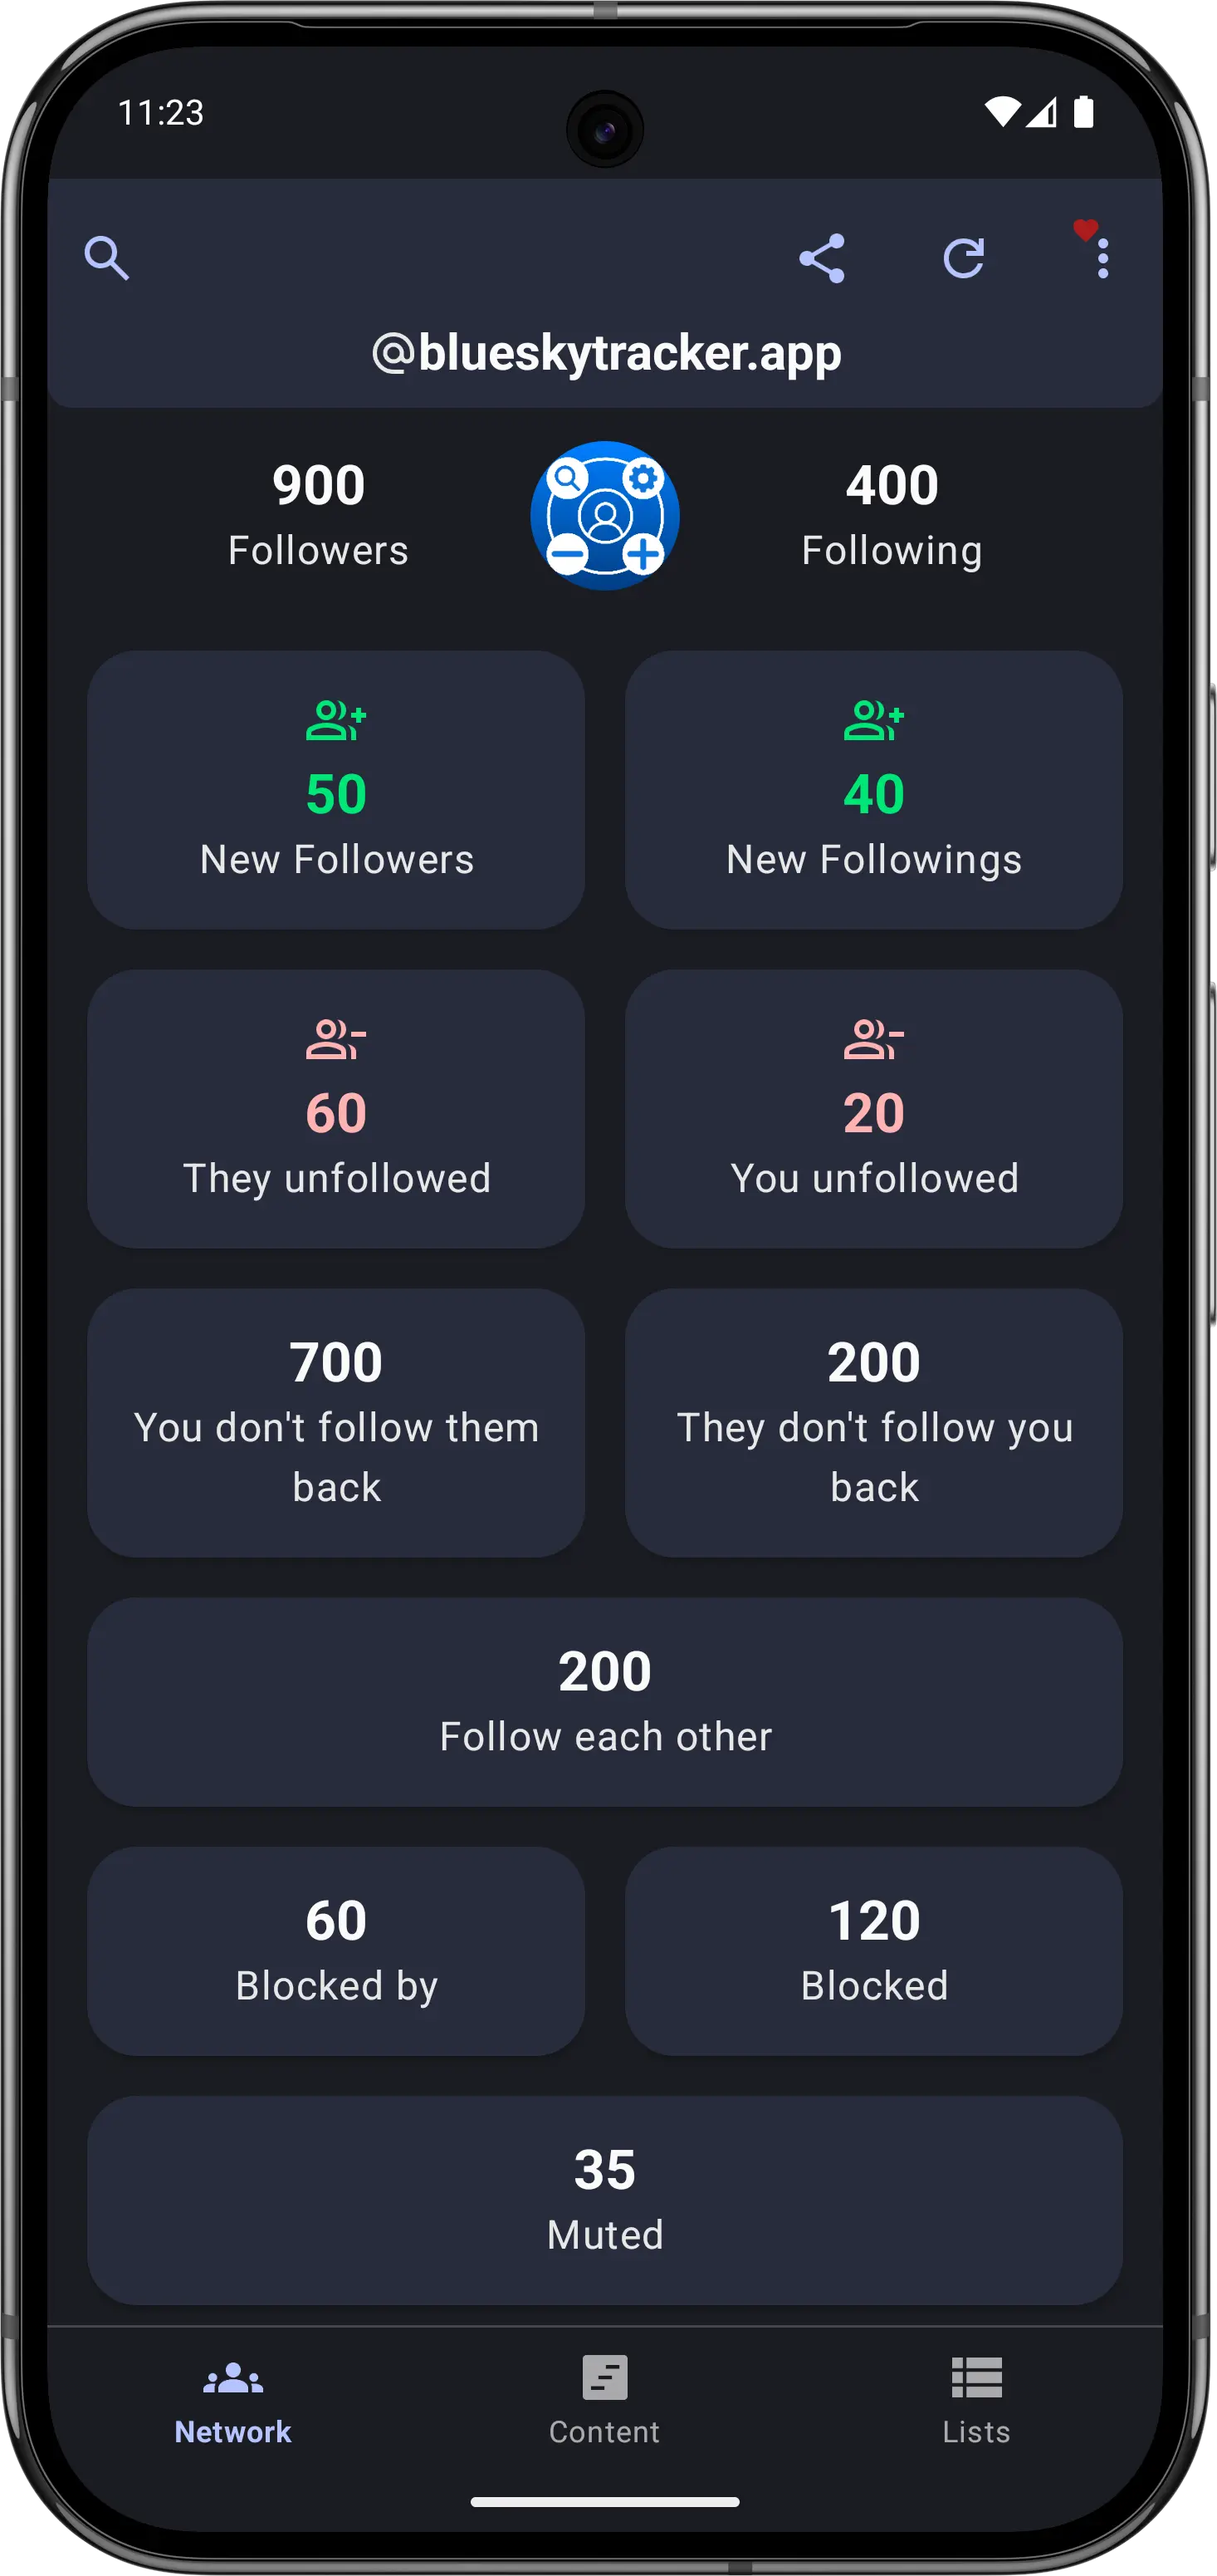
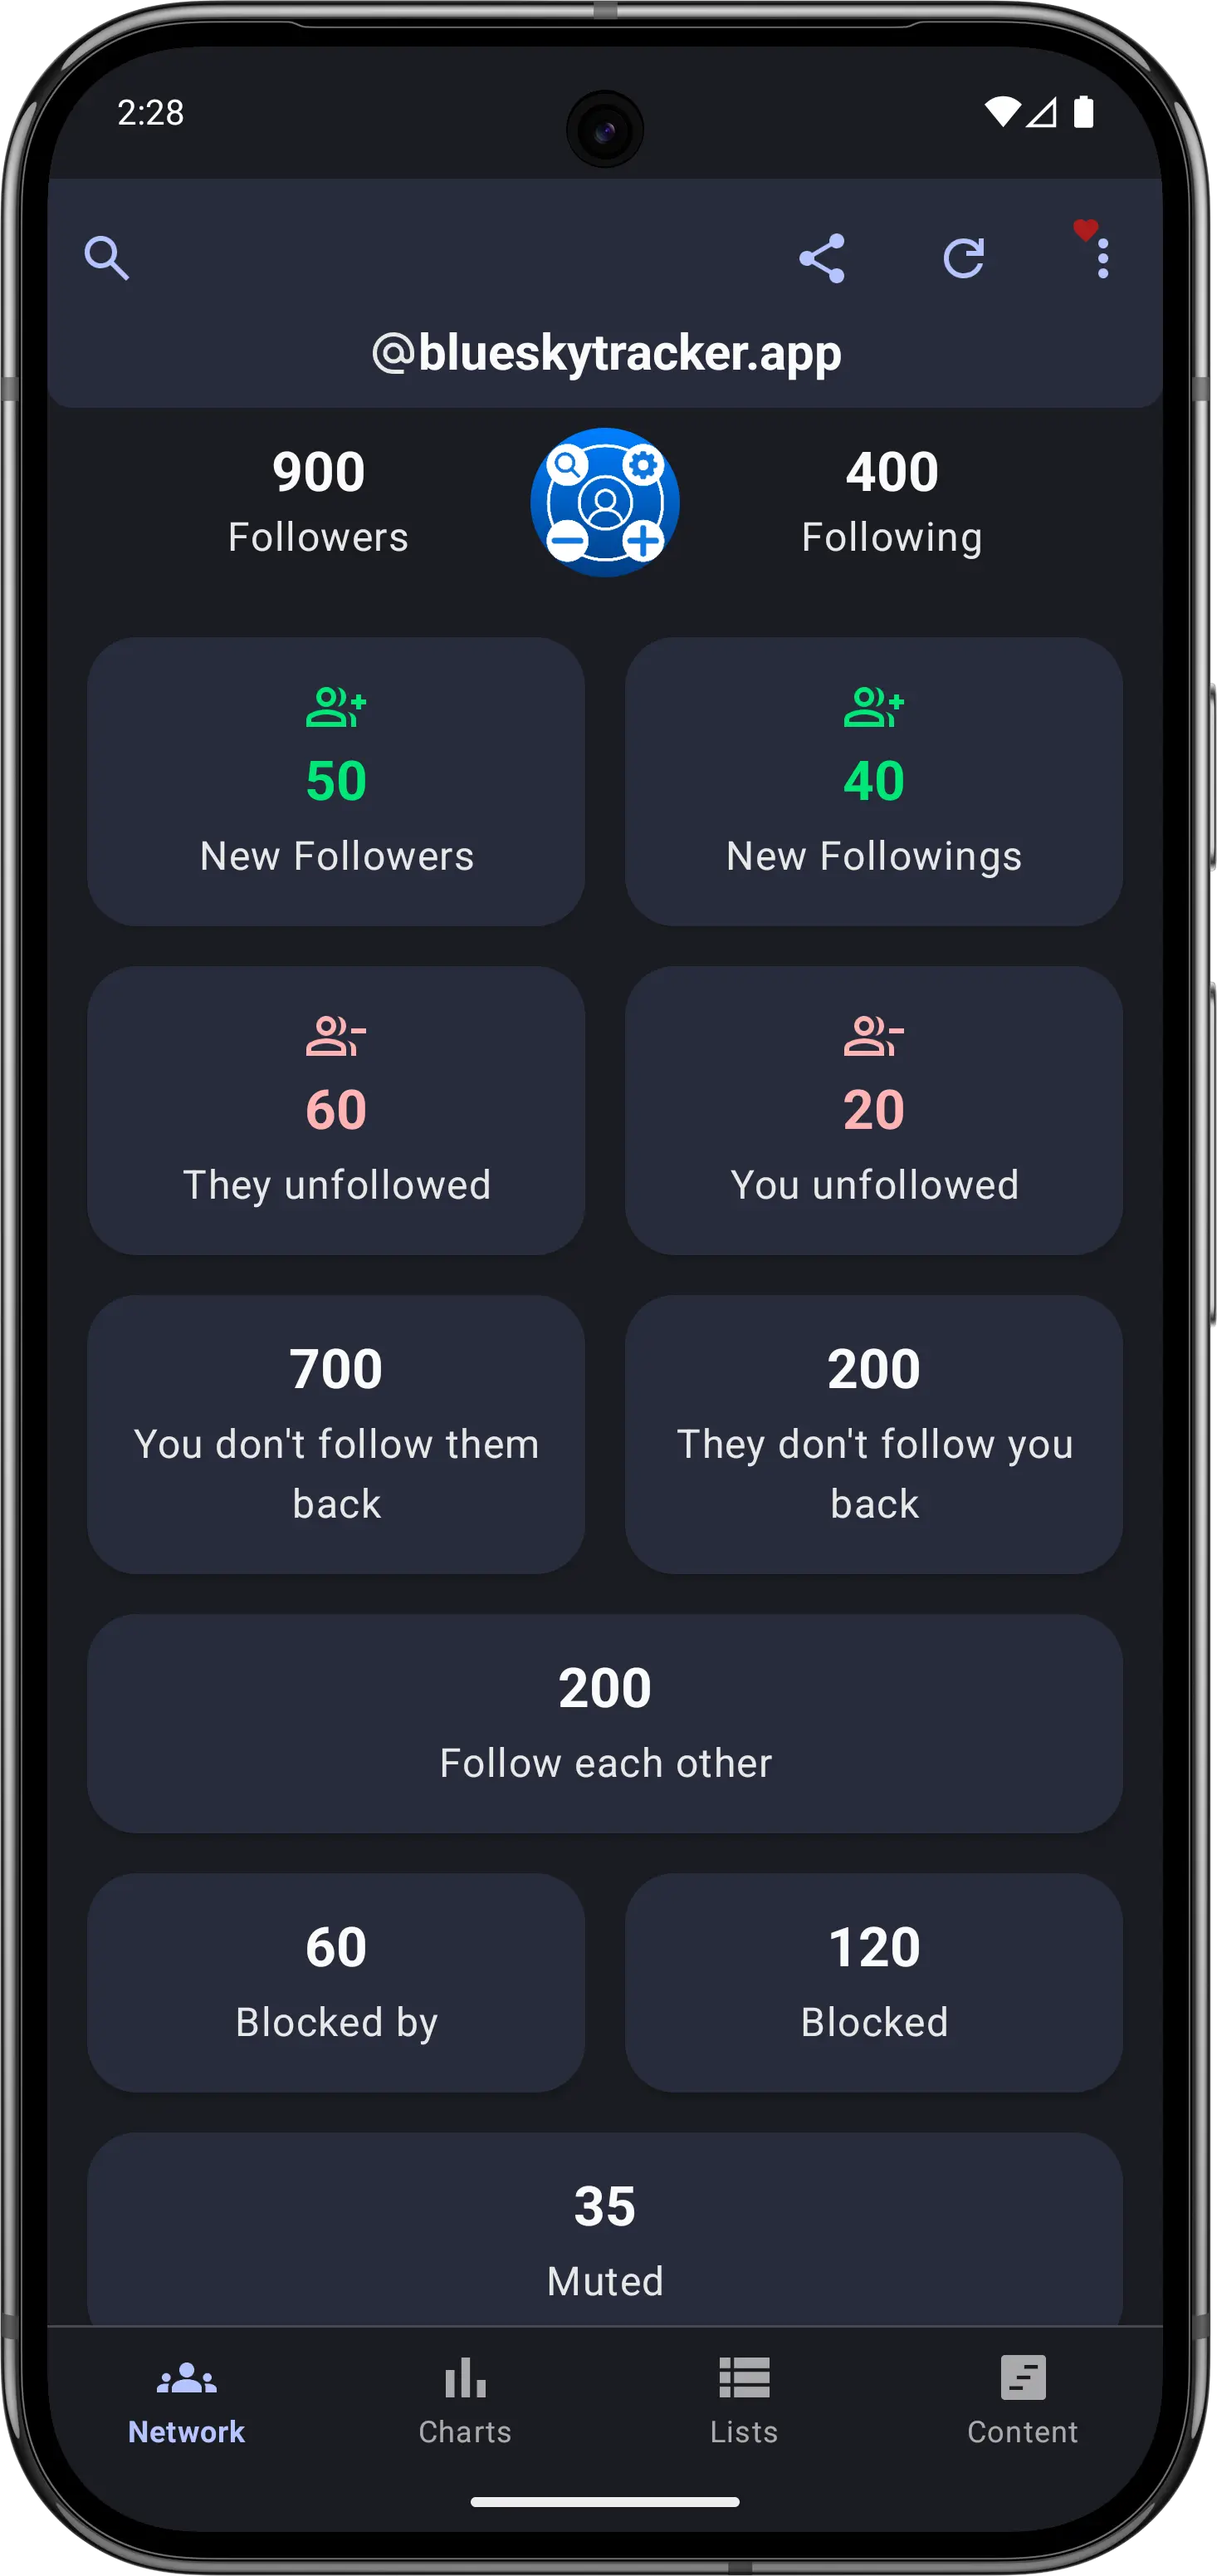
Update libraries. Update screenshots. Update release notes.

diff --git a/frontend/src/components/LandingPage.js b/frontend/src/components/LandingPage.js
@@ -69,6 +69,11 @@ const LandingPage = () => {
       description: "See who has blocked you and manage your blocks and mutes effectively."
     },
     {
+      icon: <BarChart3 className="w-6 h-6" />,
+      title: "Interactive Charts & Trends",
+      description: "Understand your growth at a glance with interactive charts for followers, followings, and engagement over time."
+    },
+    {
       icon: <Filter className="w-6 h-6" />,
       title: "Advanced Filtering",
       description: "Filter users based on keywords, followers count, follower-to-following ratio, engagement, and activity level."
@@ -146,7 +151,7 @@ const LandingPage = () => {
           <div className="container mx-auto px-6 relative z-10">
             <div className="text-center max-w-6xl mx-auto">
               <Badge className="mb-6 bg-blue-500/20 text-blue-200 border-blue-400/30">
-                15K+ downloads • 4.7⭐ rating
+                20K+ downloads • 4.8⭐ rating
               </Badge>
 
               <h1 className="text-2xl font-bold text-white mb-6 leading-tight">
@@ -258,19 +263,19 @@ const LandingPage = () => {
               {/* Download & User Stats */}
               <div className="grid grid-cols-2 md:grid-cols-4 gap-6 max-w-2xl mx-auto">
                 <div className="text-center">
-                  <div className="text-2xl font-bold text-white">15,000+</div>
+                  <div className="text-2xl font-bold text-white">20,000+</div>
                   <div className="text-sm text-white/70">Downloads</div>
                 </div>
                 <div className="text-center">
-                  <div className="text-2xl font-bold text-white">4,500+</div>
+                  <div className="text-2xl font-bold text-white">5,000+</div>
                   <div className="text-sm text-white/70">Active Users</div>
                 </div>
                 <div className="text-center">
-                  <div className="text-2xl font-bold text-white">4.7⭐</div>
+                  <div className="text-2xl font-bold text-white">4.8⭐</div>
                   <div className="text-sm text-white/70">App Rating</div>
                 </div>
                 <div className="text-center">
-                  <div className="text-2xl font-bold text-white">450+</div>
+                  <div className="text-2xl font-bold text-white">500+</div>
                   <div className="text-sm text-white/70">Reviews</div>
                 </div>
               </div>
@@ -352,7 +357,7 @@ const LandingPage = () => {
                 {[...Array(5)].map((_, i) => (
                   <Star key={i} className="w-6 h-6 text-yellow-400 fill-current" />
                 ))}
-                <span className="text-white/70 ml-2">4.7/5 from 450+ reviews</span>
+                <span className="text-white/70 ml-2">4.8/5 from 500+ reviews</span>
               </div>
             </div>
 
@@ -504,7 +509,7 @@ const LandingPage = () => {
                 Ready to Master Your Bluesky Network?
               </h2>
               <p className="text-lg text-white/80 mb-8">
-                Join 15,000+ users who trust Tracker - Manager for Bluesky to track and manage their Bluesky presence. 
+                Join 20,000+ users who trust Tracker - Manager for Bluesky to track and manage their Bluesky presence. 
                 Download now and see results immediately.
               </p>
               

diff --git a/frontend/src/data/changelog.js b/frontend/src/data/changelog.js
@@ -1,8 +1,33 @@
 export const changelogData = [
   {
+    version: "3.0.4",
+    date: "March 7, 2025",
+    isLatest: true,
+    changes: [
+      "Charts now include totals for the selected period",
+      "Improved compatibility with different PDS setups such as eurosky.social"
+    ]
+  },
+  {
+    version: "3.0.3",
+    date: "February 14, 2025",
+    isLatest: false,
+    changes: [
+      "New Charts tab: Track your network for the last 30 days with visual insights."
+    ]
+  },
+  {
+    version: "2.23.0",
+    date: "January 23, 2025",
+    isLatest: false,
+    changes: [
+      "New Advanced Filter: filter users by latest like date"
+    ]
+  },
+  {
     version: "2.22.0",
     date: "Decemer 15, 2025",
-    isLatest: true,
+    isLatest: false,
     changes: [
       "Advanced Filters now available in Unfollowed and Muted screens",
       "Verification status shown for users and added as a filter",
